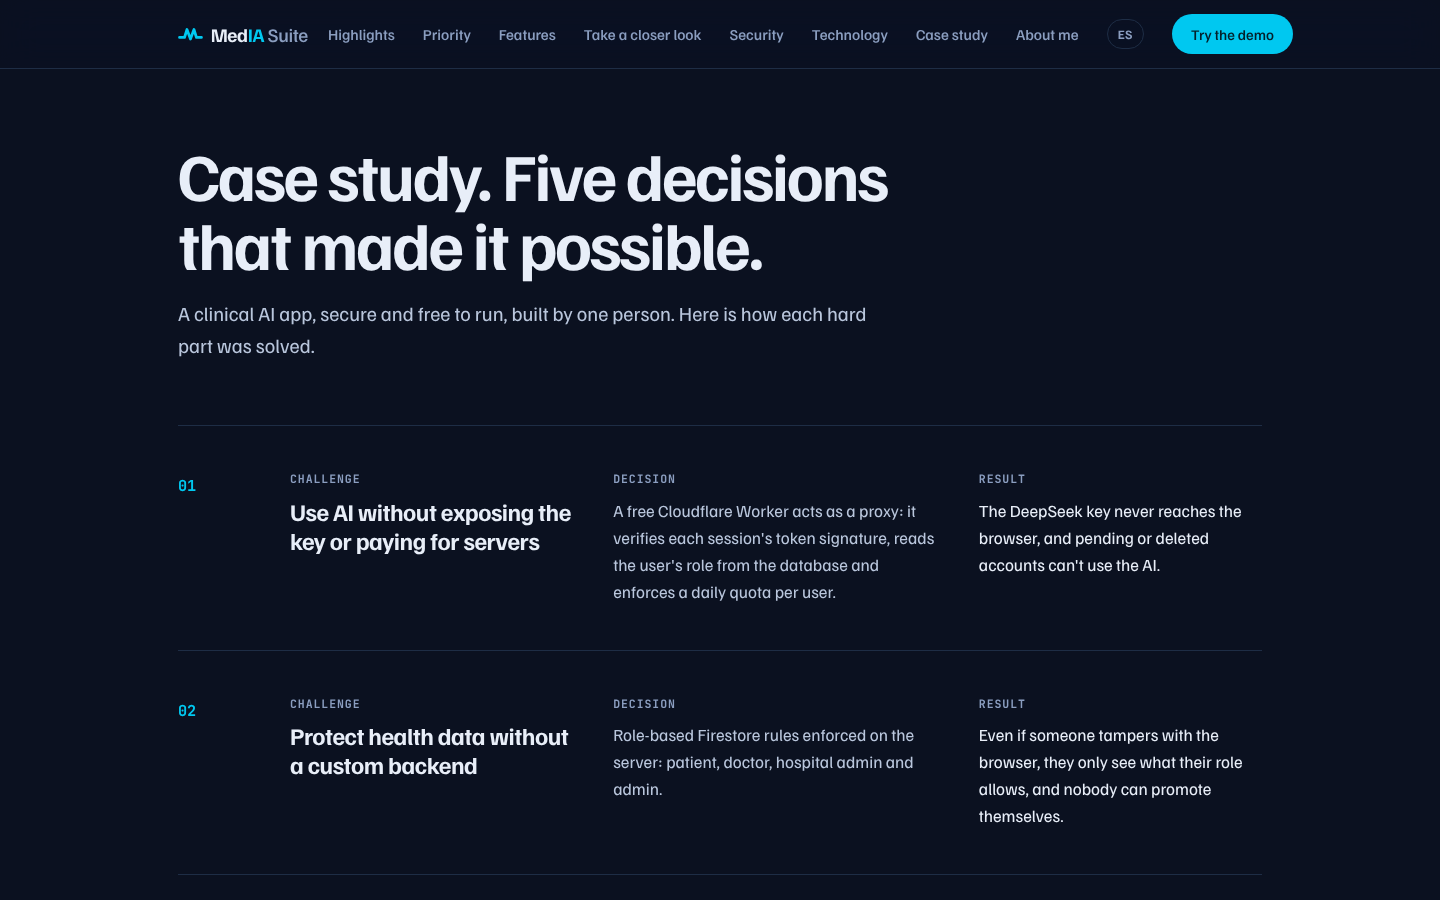
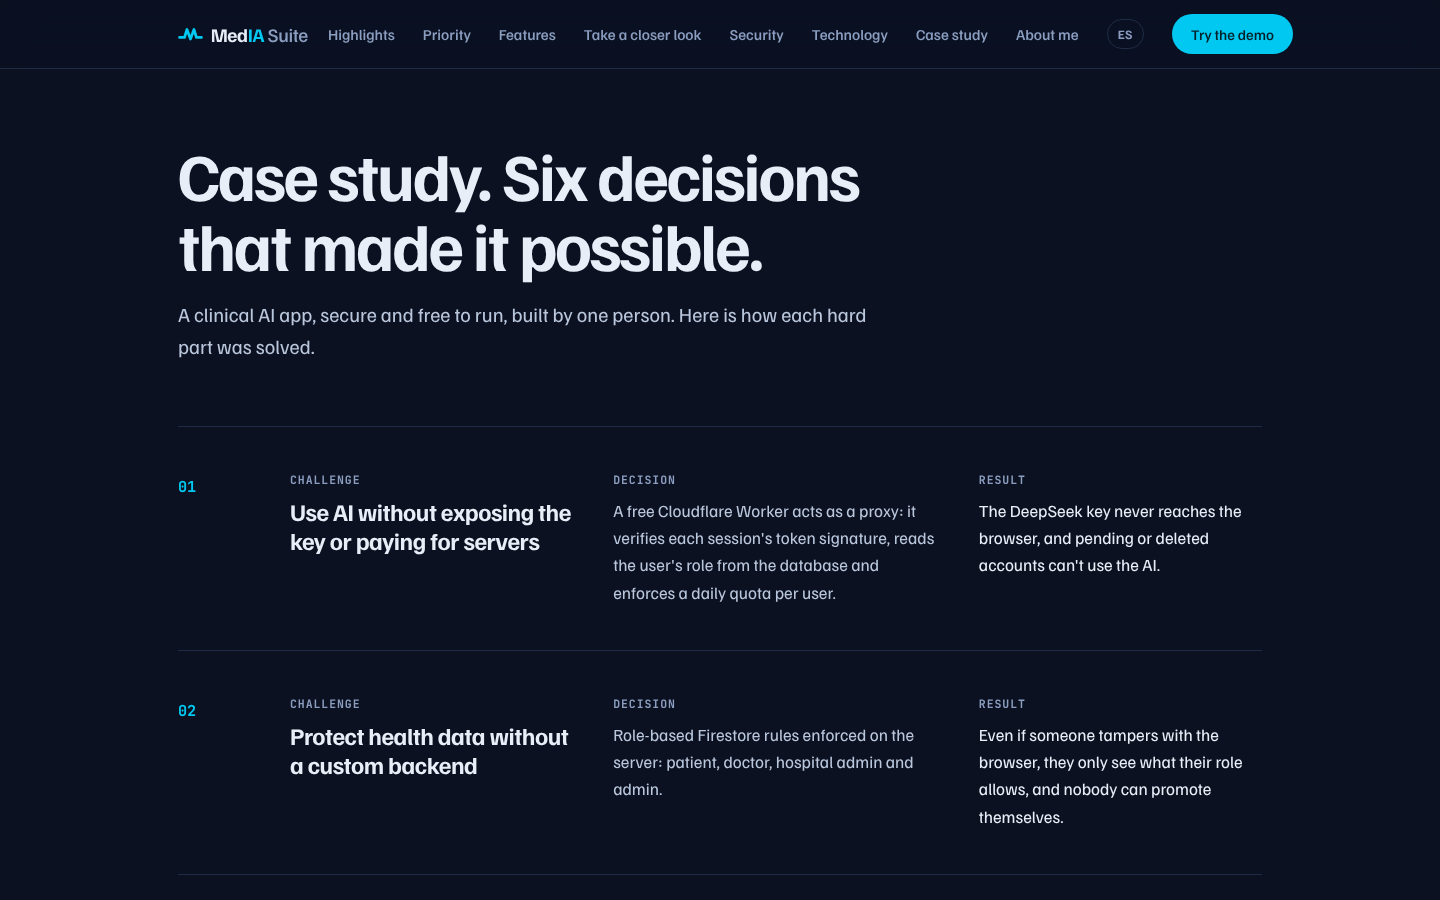
80 pruebas, caso de estudio con modo sin conexión, trazabilidad por triage y contraste accesible en Funciones

diff --git a/index.html b/index.html
@@ -187,7 +187,7 @@ input[type=range]::-moz-range-thumb{width:24px;height:24px;border:0;border-radiu
 
 /* ── RELATO DE FUNCIONES (teléfono fijo) ── */
 .story{display:grid;grid-template-columns:minmax(0,1fr) minmax(0,1fr);gap:clamp(32px,6vw,88px)}
-.step{min-height:78vh;display:flex;flex-direction:column;justify-content:center;max-width:46ch;opacity:.35;transition:opacity .5s}
+.step{min-height:78vh;display:flex;flex-direction:column;justify-content:center;max-width:46ch;opacity:.62;transition:opacity .5s}
 .step.on{opacity:1}
 .step p{margin-top:14px;color:var(--soft)}
 .step ul{list-style:none;margin-top:20px;display:grid;gap:10px}
@@ -574,7 +574,7 @@ footer .wrap{display:flex;flex-wrap:wrap;justify-content:space-between;gap:20px;
     <div class="nums">
       <div class="num"><b data-n="15">15<small>min</small></b><p>tiempo máximo para atender a un paciente rojo, con aviso si se supera</p></div>
       <div class="num"><b data-n="7">7</b><p>scores clínicos con los criterios de su publicación original</p></div>
-      <div class="num"><b data-n="66">66</b><p>pruebas automáticas en cada cambio, 7 de ellas usando la app en un navegador real</p></div>
+      <div class="num"><b data-n="80">80</b><p>pruebas automáticas en cada cambio, 11 de ellas usando la app en un navegador real</p></div>
       <div class="num"><b data-n="6">6</b><p>idiomas, con terminología adaptada a cada país</p></div>
     </div>
   </div>
@@ -591,7 +591,7 @@ footer .wrap{display:flex;flex-wrap:wrap;justify-content:space-between;gap:20px;
       <div class="sec-card"><div class="ic"><svg viewBox="0 0 24 24"><circle cx="9" cy="8" r="4"/><path d="M2 21v-1a6 6 0 0 1 6-6h2M16 15l2 2 4-4"/></svg></div><h3>Acceso por roles</h3><p>Médico, administrador de hospital, administrador y paciente. Las cuentas nuevas del personal quedan en revisión hasta que un administrador las aprueba.</p></div>
       <div class="sec-card"><div class="ic"><svg viewBox="0 0 24 24"><rect x="4" y="11" width="16" height="10" rx="2"/><path d="M8 11V7a4 4 0 0 1 8 0v4"/></svg></div><h3>La clave de la IA nunca llega al navegador</h3><p>Un servidor intermedio verifica la sesión de cada consulta, revisa el rol y aplica un límite diario por usuario.</p></div>
       <div class="sec-card"><div class="ic"><svg viewBox="0 0 24 24"><path d="M12 22s8-3.6 8-10V5l-8-3-8 3v7c0 6.4 8 10 8 10Z"/><path d="m9 12 2 2 4-4"/></svg></div><h3>Autorización según la Ley 1581</h3><p>El registro pide autorización explícita para tratar datos de salud y la política de tratamiento está siempre a un toque.</p></div>
-      <div class="sec-card"><div class="ic"><svg viewBox="0 0 24 24"><path d="M12 8v4l3 2"/><circle cx="12" cy="12" r="9"/></svg></div><h3>Trazabilidad</h3><p>Inicios de sesión, triages, restablecimientos de PIN y cambios de cuentas quedan en un registro de auditoría.</p></div>
+      <div class="sec-card"><div class="ic"><svg viewBox="0 0 24 24"><path d="M12 8v4l3 2"/><circle cx="12" cy="12" r="9"/></svg></div><h3>Trazabilidad</h3><p>Cada triage guarda quién lo creó, quién lo atendió y quién cambió su clasificación y por qué. Ese registro solo puede crecer: nadie puede borrarlo.</p></div>
     </div>
   </div>
 </section>
@@ -606,7 +606,7 @@ footer .wrap{display:flex;flex-wrap:wrap;justify-content:space-between;gap:20px;
         <span class="chip">HTML, CSS y JavaScript</span><span class="chip">Firebase Auth</span><span class="chip">Cloud Firestore</span><span class="chip">Cloudflare Workers + KV</span><span class="chip">DeepSeek</span><span class="chip">jsPDF</span><span class="chip">Chart.js</span><span class="chip">GitHub Actions</span><span class="chip">Playwright</span>
       </div>
       <div class="stats">
-        <div class="stat"><b>66</b><span>pruebas automáticas en cada cambio</span></div>
+        <div class="stat"><b>80</b><span>pruebas automáticas en cada cambio</span></div>
         <div class="stat"><b>7</b><span>scores validados contra su fuente</span></div>
         <div class="stat"><b>4</b><span>roles con reglas en el servidor</span></div>
       </div>
@@ -657,7 +657,7 @@ footer .wrap{display:flex;flex-wrap:wrap;justify-content:space-between;gap:20px;
 <section class="case" id="caso" aria-labelledby="h-case">
   <div class="wrap">
     <div class="sec-head">
-      <h2 id="h-case">Caso de estudio. Cinco decisiones que la hicieron posible.</h2>
+      <h2 id="h-case">Caso de estudio. Seis decisiones que la hicieron posible.</h2>
       <p>Una app clínica con IA, segura y gratuita de mantener, hecha por una sola persona. Así se resolvió cada parte difícil.</p>
     </div>
     <div class="case-list">
@@ -665,7 +665,8 @@ footer .wrap{display:flex;flex-wrap:wrap;justify-content:space-between;gap:20px;
       <div class="case-row"><div class="case-n">02</div><div><span class="case-k">Reto</span><h3>Proteger datos de salud sin un backend propio</h3></div><div><span class="case-k">Decisión</span><p>Reglas de Firestore por rol que se cumplen en el servidor: paciente, médico, administrador de hospital y administrador.</p></div><div class="case-res"><span class="case-k">Resultado</span><p>Aunque alguien manipule el navegador, solo ve lo que su rol permite y nadie puede subirse de rol.</p></div></div>
       <div class="case-row"><div class="case-n">03</div><div><span class="case-k">Reto</span><h3>Restablecer el PIN de un paciente en el plan gratis</h3></div><div><span class="case-k">Decisión</span><p>Sin Cloud Functions, el mismo Worker firma un token con una cuenta de servicio y llama a la API de administración de Firebase.</p></div><div class="case-res"><span class="case-k">Resultado</span><p>El personal restablece el PIN en un toque y el paciente debe crear uno nuevo al entrar. Todo queda auditado.</p></div></div>
       <div class="case-row"><div class="case-n">04</div><div><span class="case-k">Reto</span><h3>Buscar “rodri” y encontrar “Rodríguez”</h3></div><div><span class="case-k">Decisión</span><p>Firestore no busca texto parcial, así que cada historia guarda claves normalizadas: sin tildes, por prefijos de nombre y documento.</p></div><div class="case-res"><span class="case-k">Resultado</span><p>Búsqueda instantánea por nombre o cédula, en cualquier orden y con o sin puntos.</p></div></div>
-      <div class="case-row"><div class="case-n">05</div><div><span class="case-k">Reto</span><h3>Que cualquiera pueda probarla y que no se rompa</h3></div><div><span class="case-k">Decisión</span><p>Un modo demo con una base de datos simulada en memoria, y pruebas automáticas que corren en GitHub en cada cambio.</p></div><div class="case-res"><span class="case-k">Resultado</span><p>Demo sin registro ni costo, 59 pruebas de los cálculos clínicos y 7 pruebas que usan la app como una persona.</p></div></div>
+      <div class="case-row"><div class="case-n">05</div><div><span class="case-k">Reto</span><h3>Que cualquiera pueda probarla y que no se rompa</h3></div><div><span class="case-k">Decisión</span><p>Un modo demo con una base de datos simulada en memoria, y pruebas automáticas que corren en GitHub en cada cambio.</p></div><div class="case-res"><span class="case-k">Resultado</span><p>Demo sin registro ni costo, 69 pruebas de los cálculos clínicos y la seguridad, y 11 que usan la app como una persona, incluida una revisión de accesibilidad.</p></div></div>
+      <div class="case-row"><div class="case-n">06</div><div><span class="case-k">Reto</span><h3>Que no se pierda un triage si se cae internet</h3></div><div><span class="case-k">Decisión</span><p>Sin conexión, o si la IA no responde, la app calcula una clasificación provisional con reglas de signos vitales, NEWS2 y qSOFA, y guarda el triage en el dispositivo con un id propio.</p></div><div class="case-res"><span class="case-k">Resultado</span><p>El triage sigue en pie aunque falle la red y se envía solo al volver la conexión, sin duplicados.</p></div></div>
     </div>
     <p class="case-more">¿Quieres el detalle técnico? Está en el <a href="https://github.com/modarox28/triage-ia#lo-más-interesante-técnicamente">README del repositorio</a>.</p>
   </div>

diff --git a/en/index.html b/en/index.html
@@ -187,7 +187,7 @@ input[type=range]::-moz-range-thumb{width:24px;height:24px;border:0;border-radiu
 
 /* ── RELATO DE FUNCIONES (teléfono fijo) ── */
 .story{display:grid;grid-template-columns:minmax(0,1fr) minmax(0,1fr);gap:clamp(32px,6vw,88px)}
-.step{min-height:78vh;display:flex;flex-direction:column;justify-content:center;max-width:46ch;opacity:.35;transition:opacity .5s}
+.step{min-height:78vh;display:flex;flex-direction:column;justify-content:center;max-width:46ch;opacity:.62;transition:opacity .5s}
 .step.on{opacity:1}
 .step p{margin-top:14px;color:var(--soft)}
 .step ul{list-style:none;margin-top:20px;display:grid;gap:10px}
@@ -574,7 +574,7 @@ footer .wrap{display:flex;flex-wrap:wrap;justify-content:space-between;gap:20px;
     <div class="nums">
       <div class="num"><b data-n="15">15<small>min</small></b><p>maximum time to see a red patient, with an alert if it's exceeded</p></div>
       <div class="num"><b data-n="7">7</b><p>clinical scores using the criteria from their original publication</p></div>
-      <div class="num"><b data-n="66">66</b><p>automated tests on every change, 7 of them using the app in a real browser</p></div>
+      <div class="num"><b data-n="80">80</b><p>automated tests on every change, 11 of them using the app in a real browser</p></div>
       <div class="num"><b data-n="6">6</b><p>languages, with terminology adapted to each country</p></div>
     </div>
   </div>
@@ -591,7 +591,7 @@ footer .wrap{display:flex;flex-wrap:wrap;justify-content:space-between;gap:20px;
       <div class="sec-card"><div class="ic"><svg viewBox="0 0 24 24"><circle cx="9" cy="8" r="4"/><path d="M2 21v-1a6 6 0 0 1 6-6h2M16 15l2 2 4-4"/></svg></div><h3>Role-based access</h3><p>Doctor, hospital admin, admin and patient. New staff accounts stay under review until an admin approves them.</p></div>
       <div class="sec-card"><div class="ic"><svg viewBox="0 0 24 24"><rect x="4" y="11" width="16" height="10" rx="2"/><path d="M8 11V7a4 4 0 0 1 8 0v4"/></svg></div><h3>The AI key never reaches the browser</h3><p>A proxy server verifies the session on every request, checks the role and applies a daily limit per user.</p></div>
       <div class="sec-card"><div class="ic"><svg viewBox="0 0 24 24"><path d="M12 22s8-3.6 8-10V5l-8-3-8 3v7c0 6.4 8 10 8 10Z"/><path d="m9 12 2 2 4-4"/></svg></div><h3>Consent under Colombia's data law</h3><p>Sign-up asks for explicit consent to process health data (Law 1581 of 2012), and the privacy policy is always one tap away.</p></div>
-      <div class="sec-card"><div class="ic"><svg viewBox="0 0 24 24"><path d="M12 8v4l3 2"/><circle cx="12" cy="12" r="9"/></svg></div><h3>Traceability</h3><p>Sign-ins, triages, PIN resets and account changes are recorded in an audit log.</p></div>
+      <div class="sec-card"><div class="ic"><svg viewBox="0 0 24 24"><path d="M12 8v4l3 2"/><circle cx="12" cy="12" r="9"/></svg></div><h3>Traceability</h3><p>Each triage records who created it, who attended to it and who changed its priority and why. That log can only grow: nobody can delete it.</p></div>
     </div>
   </div>
 </section>
@@ -606,7 +606,7 @@ footer .wrap{display:flex;flex-wrap:wrap;justify-content:space-between;gap:20px;
         <span class="chip">HTML, CSS and JavaScript</span><span class="chip">Firebase Auth</span><span class="chip">Cloud Firestore</span><span class="chip">Cloudflare Workers + KV</span><span class="chip">DeepSeek</span><span class="chip">jsPDF</span><span class="chip">Chart.js</span><span class="chip">GitHub Actions</span><span class="chip">Playwright</span>
       </div>
       <div class="stats">
-        <div class="stat"><b>66</b><span>automated tests on every change</span></div>
+        <div class="stat"><b>80</b><span>automated tests on every change</span></div>
         <div class="stat"><b>7</b><span>scores validated against their source</span></div>
         <div class="stat"><b>4</b><span>roles enforced on the server</span></div>
       </div>
@@ -657,7 +657,7 @@ footer .wrap{display:flex;flex-wrap:wrap;justify-content:space-between;gap:20px;
 <section class="case" id="caso" aria-labelledby="h-case">
   <div class="wrap">
     <div class="sec-head">
-      <h2 id="h-case">Case study. Five decisions that made it possible.</h2>
+      <h2 id="h-case">Case study. Six decisions that made it possible.</h2>
       <p>A clinical AI app, secure and free to run, built by one person. Here is how each hard part was solved.</p>
     </div>
     <div class="case-list">
@@ -665,7 +665,8 @@ footer .wrap{display:flex;flex-wrap:wrap;justify-content:space-between;gap:20px;
       <div class="case-row"><div class="case-n">02</div><div><span class="case-k">Challenge</span><h3>Protect health data without a custom backend</h3></div><div><span class="case-k">Decision</span><p>Role-based Firestore rules enforced on the server: patient, doctor, hospital admin and admin.</p></div><div class="case-res"><span class="case-k">Result</span><p>Even if someone tampers with the browser, they only see what their role allows, and nobody can promote themselves.</p></div></div>
       <div class="case-row"><div class="case-n">03</div><div><span class="case-k">Challenge</span><h3>Reset a patient's PIN on the free plan</h3></div><div><span class="case-k">Decision</span><p>With no Cloud Functions, the same Worker signs a token with a service account and calls the Firebase admin API.</p></div><div class="case-res"><span class="case-k">Result</span><p>Staff reset a PIN in one tap and the patient must create a new one on sign-in. Everything is audited.</p></div></div>
       <div class="case-row"><div class="case-n">04</div><div><span class="case-k">Challenge</span><h3>Type “rodri” and find “Rodríguez”</h3></div><div><span class="case-k">Decision</span><p>Firestore can't search partial text, so each record stores normalized keys: no accents, prefixes of name and ID number.</p></div><div class="case-res"><span class="case-k">Result</span><p>Instant search by name or ID, in any order, with or without separators.</p></div></div>
-      <div class="case-row"><div class="case-n">05</div><div><span class="case-k">Challenge</span><h3>Let anyone try it, and keep it from breaking</h3></div><div><span class="case-k">Decision</span><p>A demo mode with an in-memory simulated database, plus automated tests that run on GitHub on every change.</p></div><div class="case-res"><span class="case-k">Result</span><p>A free demo with no sign-up, 59 tests of the clinical calculations and 7 tests that use the app like a person would.</p></div></div>
+      <div class="case-row"><div class="case-n">05</div><div><span class="case-k">Challenge</span><h3>Let anyone try it, and keep it from breaking</h3></div><div><span class="case-k">Decision</span><p>A demo mode with an in-memory simulated database, plus automated tests that run on GitHub on every change.</p></div><div class="case-res"><span class="case-k">Result</span><p>A free demo with no sign-up, 69 tests of the clinical calculations and security, and 11 that use the app like a person would, including an accessibility check.</p></div></div>
+      <div class="case-row"><div class="case-n">06</div><div><span class="case-k">Challenge</span><h3>Never lose a triage when the internet drops</h3></div><div><span class="case-k">Decision</span><p>When offline, or if the AI doesn't respond, the app computes a provisional priority with vital-sign rules, NEWS2 and qSOFA, and stores the triage on the device with its own ID.</p></div><div class="case-res"><span class="case-k">Result</span><p>Triage keeps working through network failures and syncs automatically when the connection returns, with no duplicates.</p></div></div>
     </div>
     <p class="case-more">Want the technical details? They are in the <a href="https://github.com/modarox28/triage-ia#lo-más-interesante-técnicamente">repository README</a>.</p>
   </div>
